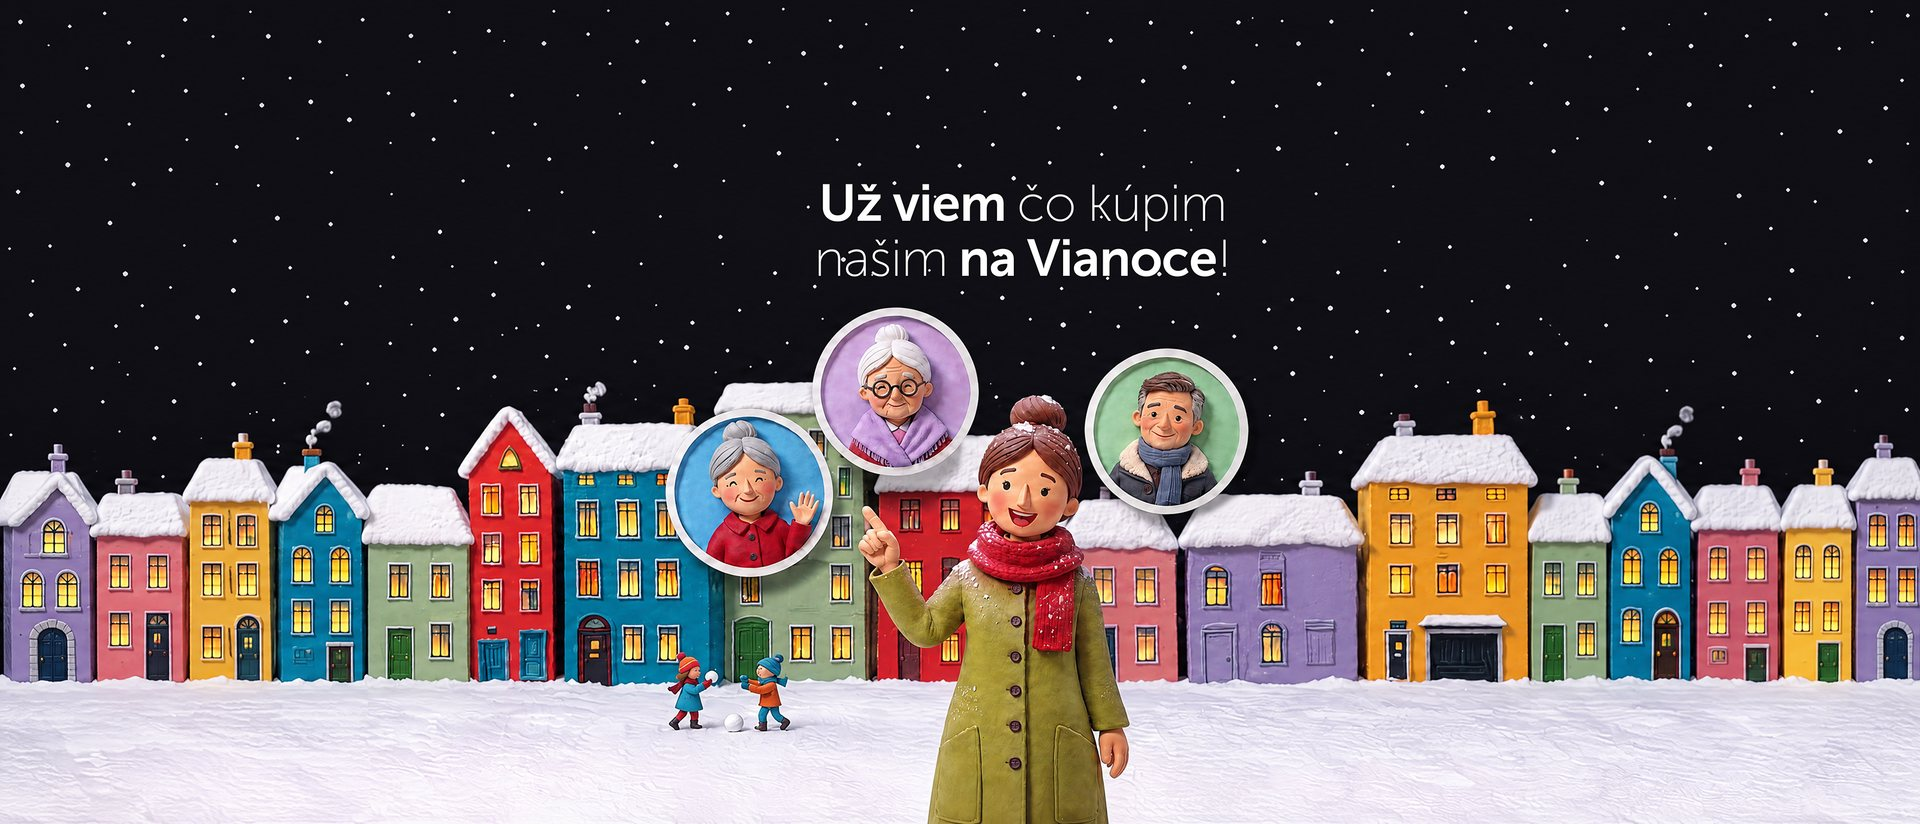
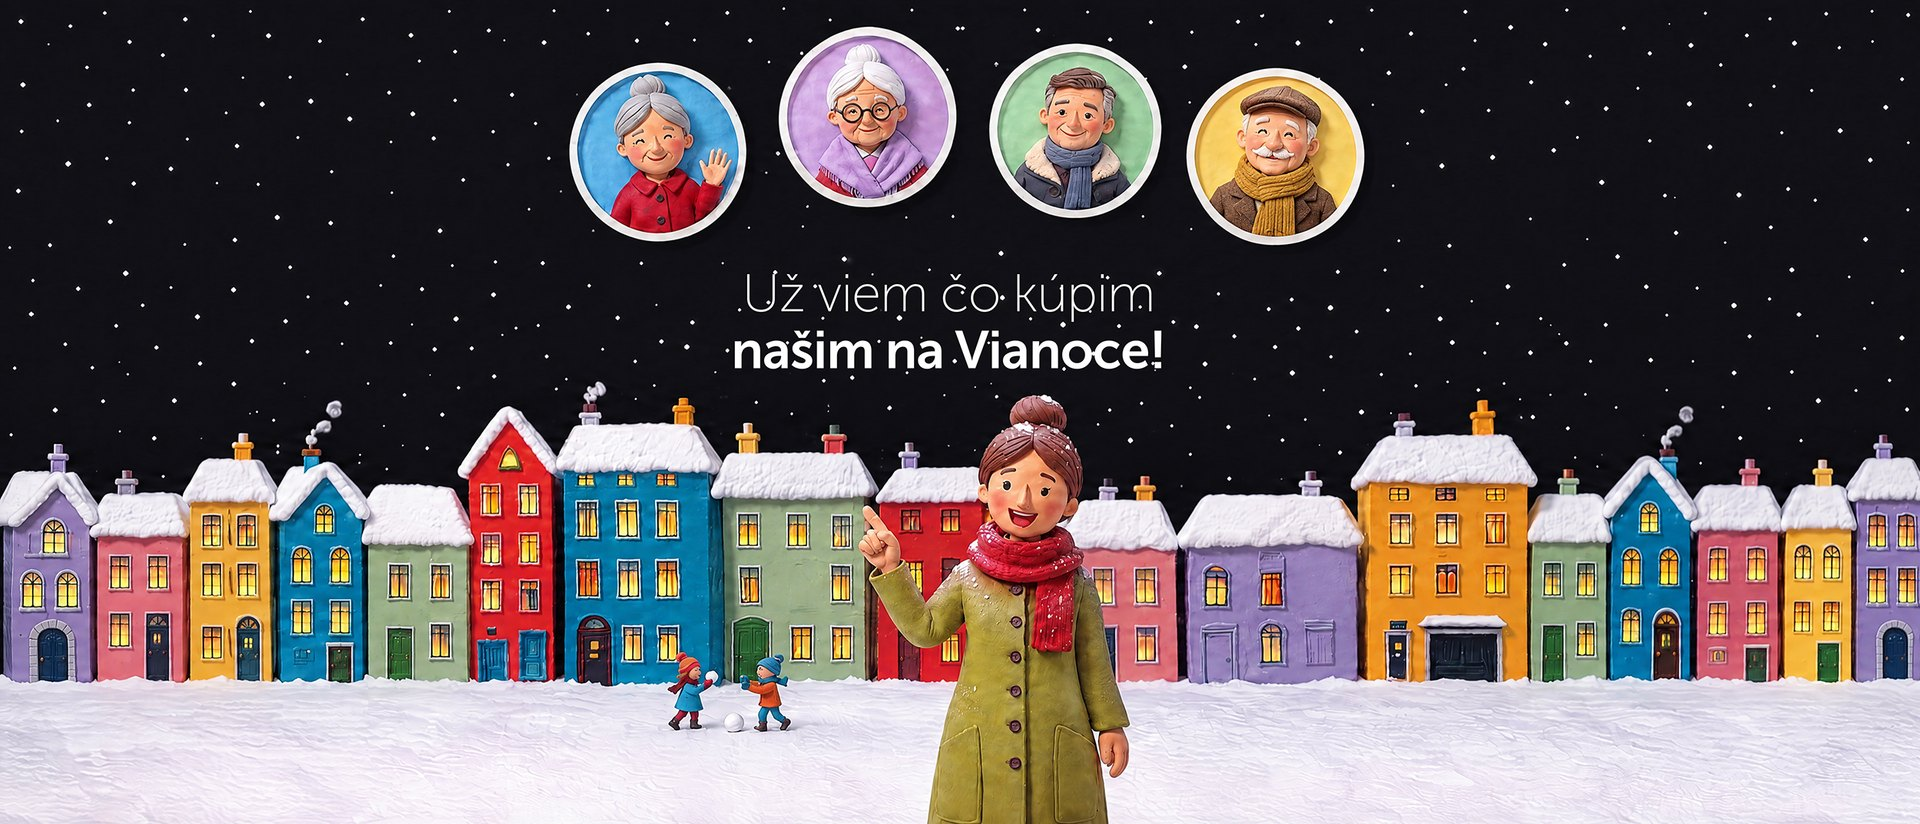
Hero Vianoce: nový obrázok podľa hero_vianoce_kategoria.png z Disku
Claude-Session: https://claude.ai/code/session_01Y5PJrs9RnUsi22xdaqrMPo

diff --git a/web-klon/nasadenie/HERO VIANOCE/NAVOD.md b/web-klon/nasadenie/HERO VIANOCE/NAVOD.md
@@ -1,6 +1,6 @@
 # Vianočný slide v karuseli na úvodnej stránke (12. 11. 2026)
 
-Nový prvý slide: obrázok `hero-vianoce.jpg`, nadpis „Vianočné balíčky Silwer“,
+Nový prvý slide: obrázok `hero-vianoce.jpg` (od 13. 11. podľa `hero_vianoce_kategoria.png` z Disku, 1920×824), nadpis „Vianočné balíčky Silwer“,
 text „8 balíčkov pre mamu, babku, otca aj dedka. Od 29 do 69 €, už zabalené pod stromček.“,
 tlačidlo „Vybrať balíček“ → /vianoce-2026/. Vyskúšané na ostrom webe (počítač, tablet, mobil) bez chýb.
 
@@ -8,6 +8,8 @@ Slidy karuselu definuje skript `silwer-redesign.min.js` (zoznam heroSlides). HTM
 je len rýchla kópia na prvé zobrazenie – keď sa od skriptu líši, skript ho zahodí a postaví karusel znova.
 
 ## Postup (v tomto poradí)
+Stav 13. 11.: na webe ešte nie je nič z tohto (obrázok na CDN chýba, HTML kód načítava `?v=20261112a`).
+
 1. **Správca súborov** → `upload/obrazky/` → nahrať `hero-vianoce.jpg`
 2. **Správca súborov** → `upload/KODY/` → nahradiť `silwer-redesign.min.js` (z priečinka KODY)
 3. **HTML kód** → v riadku so `silwer-redesign.min.js` zmeniť `?v=20261112a` na `?v=20261112b`
